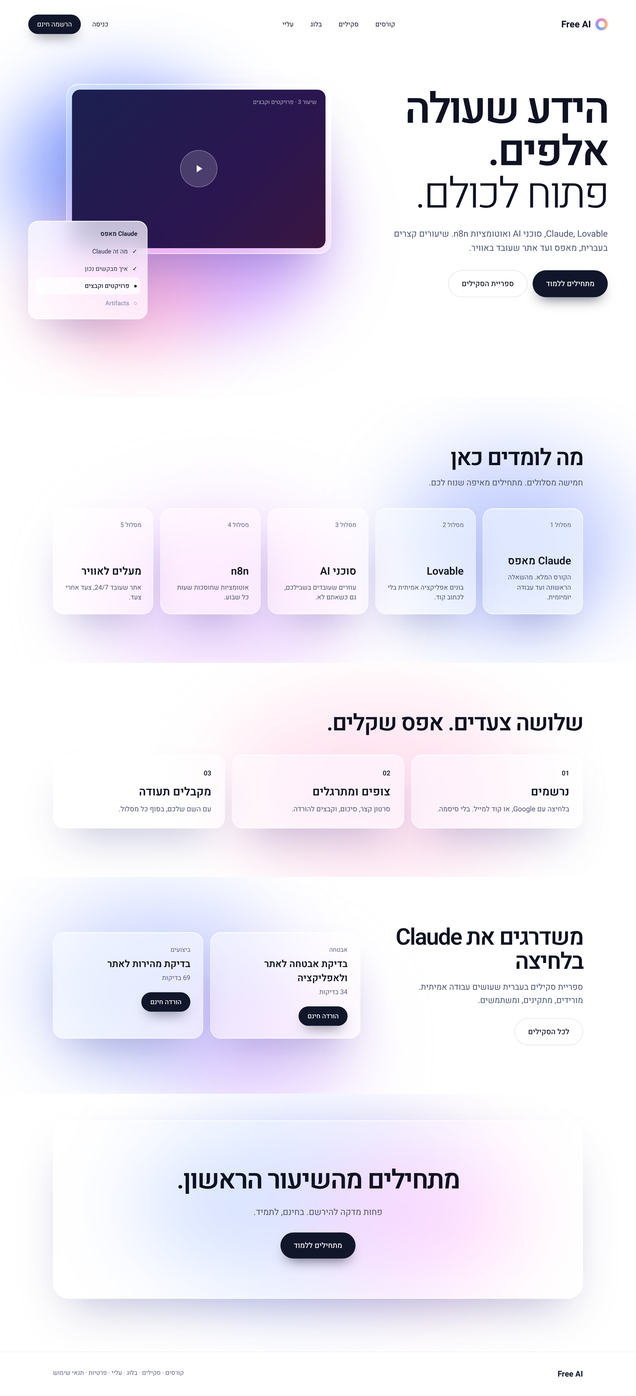
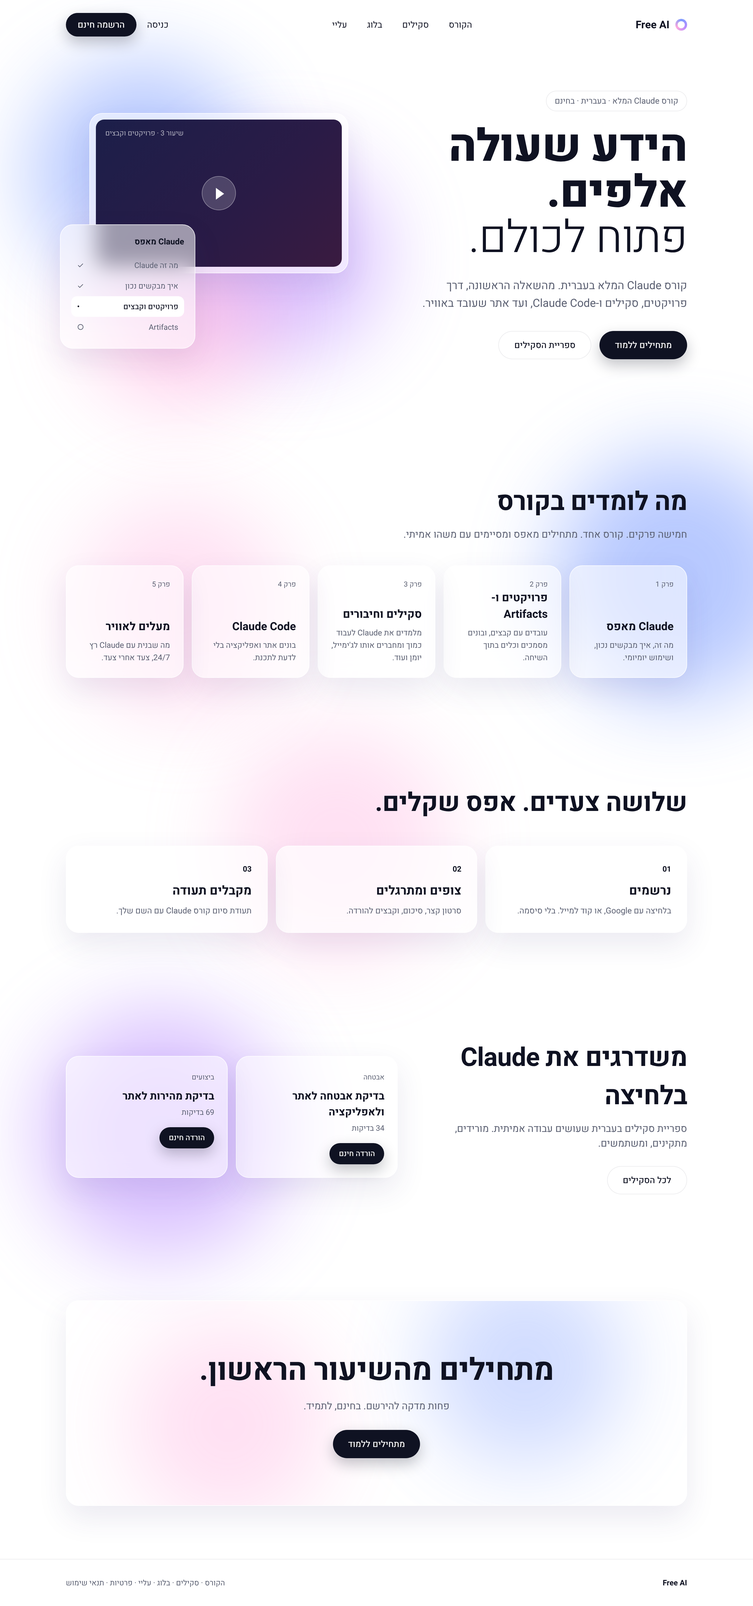
Refocus home page and spec on a single free Claude course
Claude-Session: https://claude.ai/code/session_01WAZ9J6fvZkyDMx8fFy74wA

diff --git a/docs/design/home.html b/docs/design/home.html
@@ -1,0 +1,164 @@
+<!doctype html>
+<html lang="he" dir="rtl">
+<head>
+<meta charset="utf-8">
+<meta name="viewport" content="width=device-width, initial-scale=1">
+<title>Free AI – קורס Claude בחינם</title>
+<link rel="preconnect" href="https://fonts.googleapis.com">
+<link href="https://fonts.googleapis.com/css2?family=Heebo:wght@300;400;500;700;800&display=swap" rel="stylesheet">
+<style>
+  :root{--ink:#0f1222;--muted:#5b6072;--line:rgba(15,18,34,.08);--glass:rgba(255,255,255,.55)}
+  *{box-sizing:border-box;margin:0;padding:0}
+  body{font-family:Heebo,system-ui,sans-serif;color:var(--ink);background:#fff;overflow-x:hidden}
+  a{color:inherit;text-decoration:none}
+  .wrap{max-width:1120px;margin:0 auto;padding:0 32px;position:relative}
+  .blob{position:absolute;border-radius:50%;filter:blur(70px);opacity:.55;z-index:0;pointer-events:none}
+  .b-blue{background:#7c9cff}.b-violet{background:#b98cff}.b-pink{background:#ffa8dc}
+  .glass{background:var(--glass);backdrop-filter:blur(18px);-webkit-backdrop-filter:blur(18px);border:1px solid rgba(255,255,255,.8);box-shadow:0 20px 50px rgba(60,50,120,.10);border-radius:22px;position:relative;z-index:1}
+  .btn{display:inline-flex;align-items:center;justify-content:center;height:48px;padding:0 26px;border-radius:999px;font-weight:500;font-size:15px}
+  .btn-dark{background:var(--ink);color:#fff;box-shadow:0 10px 24px rgba(15,18,34,.25)}
+  .btn-ghost{border:1px solid var(--line);background:#fff}
+  header{display:flex;align-items:center;justify-content:space-between;height:84px;position:relative;z-index:2}
+  .logo{display:flex;align-items:center;gap:10px;font-weight:700;font-size:18px}
+  .logo i{width:20px;height:20px;border-radius:50%;border:4px solid transparent;background:linear-gradient(#fff,#fff) padding-box,conic-gradient(#7c9cff,#b98cff,#ffa8dc,#7c9cff) border-box}
+  nav{display:flex;gap:34px;font-size:15px}
+  .actions{display:flex;gap:18px;align-items:center;font-size:15px}
+  .actions .btn{height:40px;padding:0 20px}
+  .hero{display:grid;grid-template-columns:1.05fr 1fr;gap:40px;align-items:center;padding:70px 0 120px;position:relative}
+  .kicker{display:inline-block;font-size:14px;color:var(--muted);border:1px solid var(--line);border-radius:999px;padding:6px 14px;margin-bottom:22px;background:#fff}
+  h1{font-size:76px;line-height:1.02;font-weight:800;letter-spacing:-1px}
+  h1 span{font-weight:300;display:block}
+  .lead{font-size:19px;color:var(--muted);line-height:1.6;margin:26px 0 32px;max-width:470px}
+  .ctas{display:flex;gap:14px}
+  .stage{position:relative;height:420px}
+  .video{position:absolute;top:20px;left:40px;width:440px;padding:10px}
+  .screen{height:250px;border-radius:14px;background:linear-gradient(135deg,#1c1f4a,#2a1b46 60%,#3a1b40);position:relative}
+  .screen small{position:absolute;top:14px;left:16px;color:rgba(255,255,255,.65);font-size:12px}
+  .play{position:absolute;inset:0;margin:auto;width:58px;height:58px;border-radius:50%;background:rgba(255,255,255,.18);border:1px solid rgba(255,255,255,.35)}
+  .play:after{content:"";position:absolute;left:23px;top:19px;border-left:14px solid #fff;border-top:10px solid transparent;border-bottom:10px solid transparent}
+  .list{position:absolute;bottom:0;left:-10px;width:230px;padding:18px}
+  .list b{font-size:14px;display:block;margin-bottom:12px}
+  .list div{font-size:13px;padding:8px 10px;border-radius:10px;color:var(--muted);display:flex;justify-content:space-between}
+  .list .on{background:#fff;color:var(--ink);font-weight:500}
+  section{padding:90px 0;position:relative}
+  h2{font-size:44px;font-weight:700;letter-spacing:-.5px;position:relative;z-index:1}
+  .sub{color:var(--muted);font-size:17px;margin-top:10px;position:relative;z-index:1}
+  .grid5{display:grid;grid-template-columns:repeat(5,1fr);gap:14px;margin-top:40px}
+  .card{padding:22px;min-height:190px;display:flex;flex-direction:column}
+  .card .n{font-size:12px;color:var(--muted)}
+  .card h3{font-size:19px;margin-top:auto;margin-bottom:8px}
+  .card p{font-size:13.5px;color:var(--muted);line-height:1.55}
+  .grid3{display:grid;grid-template-columns:repeat(3,1fr);gap:14px;margin-top:40px}
+  .step{padding:26px;background:rgba(255,255,255,.7)}
+  .step .n{font-size:13px;font-weight:700}
+  .step h3{font-size:21px;margin:10px 0 8px}
+  .step p{font-size:14px;color:var(--muted)}
+  .skills{display:grid;grid-template-columns:1fr 1.25fr;gap:40px;align-items:center}
+  .skillcards{display:grid;grid-template-columns:1fr 1fr;gap:14px}
+  .sk{padding:22px}
+  .sk .n{font-size:12px;color:var(--muted)}
+  .sk h3{font-size:18px;margin:8px 0 4px}
+  .sk p{font-size:13px;color:var(--muted);margin-bottom:16px}
+  .sk .btn{height:36px;padding:0 16px;font-size:13px}
+  .final{text-align:center;padding:80px 30px;overflow:hidden}
+  .final h2{font-size:52px}
+  .final .sub{margin-bottom:28px}
+  footer{border-top:1px solid var(--line);padding:30px 0;font-size:13px;color:var(--muted)}
+  footer .wrap{display:flex;justify-content:space-between}
+  footer b{color:var(--ink)}
+  @media (max-width:820px){
+    nav{display:none}.hero,.skills{grid-template-columns:1fr}h1{font-size:48px}
+    .grid5,.grid3,.skillcards{grid-template-columns:1fr}.wrap{padding:0 16px}
+    .stage{height:360px}.video{left:0;width:100%}
+  }
+</style>
+</head>
+<body>
+<div class="wrap">
+  <header>
+    <a class="logo" href="#"><i></i>Free AI</a>
+    <nav><a href="#">הקורס</a><a href="#">סקילים</a><a href="#">בלוג</a><a href="#">עליי</a></nav>
+    <div class="actions"><a href="#">כניסה</a><a class="btn btn-dark" href="#">הרשמה חינם</a></div>
+  </header>
+
+  <div class="hero">
+    <div class="blob b-blue" style="width:380px;height:380px;left:-60px;top:20px"></div>
+    <div class="blob b-violet" style="width:340px;height:340px;left:200px;top:180px"></div>
+    <div class="blob b-pink" style="width:300px;height:300px;left:40px;top:300px"></div>
+    <div style="position:relative;z-index:1">
+      <div class="kicker">קורס Claude המלא · בעברית · בחינם</div>
+      <h1>הידע שעולה אלפים.<span>פתוח לכולם.</span></h1>
+      <p class="lead">קורס Claude המלא בעברית. מהשאלה הראשונה, דרך פרויקטים, סקילים ו-Claude Code, ועד אתר שעובד באוויר.</p>
+      <div class="ctas"><a class="btn btn-dark" href="#">מתחילים ללמוד</a><a class="btn btn-ghost" href="#">ספריית הסקילים</a></div>
+    </div>
+    <div class="stage">
+      <div class="glass video"><div class="screen"><small>שיעור 3 · פרויקטים וקבצים</small><span class="play"></span></div></div>
+      <div class="glass list">
+        <b>Claude מאפס</b>
+        <div><span>מה זה Claude</span><span>✓</span></div>
+        <div><span>איך מבקשים נכון</span><span>✓</span></div>
+        <div class="on"><span>פרויקטים וקבצים</span><span>•</span></div>
+        <div><span>Artifacts</span><span>○</span></div>
+      </div>
+    </div>
+  </div>
+</div>
+
+<section>
+  <div class="blob b-blue" style="width:420px;height:420px;right:-80px;top:40px"></div>
+  <div class="blob b-pink" style="width:360px;height:360px;left:10%;top:120px;opacity:.35"></div>
+  <div class="wrap">
+    <h2>מה לומדים בקורס</h2>
+    <p class="sub">חמישה פרקים. קורס אחד. מתחילים מאפס ומסיימים עם משהו אמיתי.</p>
+    <div class="grid5">
+      <div class="glass card"><span class="n">פרק 1</span><h3>Claude מאפס</h3><p>מה זה, איך מבקשים נכון, ושימוש יומיומי.</p></div>
+      <div class="glass card"><span class="n">פרק 2</span><h3>פרויקטים ו-Artifacts</h3><p>עובדים עם קבצים, ובונים מסמכים וכלים בתוך השיחה.</p></div>
+      <div class="glass card"><span class="n">פרק 3</span><h3>סקילים וחיבורים</h3><p>מלמדים את Claude לעבוד כמוך ומחברים אותו לג'ימייל, יומן ועוד.</p></div>
+      <div class="glass card"><span class="n">פרק 4</span><h3>Claude Code</h3><p>בונים אתר ואפליקציה בלי לדעת לתכנת.</p></div>
+      <div class="glass card"><span class="n">פרק 5</span><h3>מעלים לאוויר</h3><p>מה שבנית עם Claude רץ 24/7, צעד אחרי צעד.</p></div>
+    </div>
+  </div>
+</section>
+
+<section>
+  <div class="blob b-pink" style="width:380px;height:380px;left:30%;top:0;opacity:.35"></div>
+  <div class="wrap">
+    <h2>שלושה צעדים. אפס שקלים.</h2>
+    <div class="grid3">
+      <div class="glass step"><span class="n">01</span><h3>נרשמים</h3><p>בלחיצה עם Google, או קוד למייל. בלי סיסמה.</p></div>
+      <div class="glass step"><span class="n">02</span><h3>צופים ומתרגלים</h3><p>סרטון קצר, סיכום, וקבצים להורדה.</p></div>
+      <div class="glass step"><span class="n">03</span><h3>מקבלים תעודה</h3><p>תעודת סיום קורס Claude עם השם שלך.</p></div>
+    </div>
+  </div>
+</section>
+
+<section>
+  <div class="blob b-violet" style="width:420px;height:420px;left:5%;top:40px"></div>
+  <div class="wrap skills">
+    <div>
+      <h2>משדרגים את Claude בלחיצה</h2>
+      <p class="sub">ספריית סקילים בעברית שעושים עבודה אמיתית. מורידים, מתקינים, ומשתמשים.</p>
+      <a class="btn btn-ghost" style="margin-top:26px;position:relative;z-index:1" href="#">לכל הסקילים</a>
+    </div>
+    <div class="skillcards">
+      <div class="glass sk"><span class="n">אבטחה</span><h3>בדיקת אבטחה לאתר ולאפליקציה</h3><p>34 בדיקות</p><a class="btn btn-dark" href="#">הורדה חינם</a></div>
+      <div class="glass sk"><span class="n">ביצועים</span><h3>בדיקת מהירות לאתר</h3><p>69 בדיקות</p><a class="btn btn-dark" href="#">הורדה חינם</a></div>
+    </div>
+  </div>
+</section>
+
+<section>
+  <div class="wrap">
+    <div class="glass final">
+      <div class="blob b-blue" style="width:340px;height:340px;right:10%;top:-60px;opacity:.35"></div>
+      <div class="blob b-pink" style="width:340px;height:340px;left:10%;top:40px;opacity:.35"></div>
+      <h2>מתחילים מהשיעור הראשון.</h2>
+      <p class="sub">פחות מדקה להירשם. בחינם, לתמיד.</p>
+      <a class="btn btn-dark" style="position:relative;z-index:1" href="#">מתחילים ללמוד</a>
+    </div>
+  </div>
+</section>
+
+<footer><div class="wrap"><b>Free AI</b><span>הקורס · סקילים · בלוג · עליי · פרטיות · תנאי שימוש</span></div></footer>
+</body>
+</html>

diff --git a/docs/SPEC.md b/docs/SPEC.md
@@ -1,37 +1,40 @@
 # אפיון: Free AI – גרסה 1
 
+> **מיקוד:** כל האתר הוא קורס Claude אחד, מלא ובחינם. אין מסלולים אחרים.
+
 ## הבעיה
-קורסי AI בעברית (Claude, Lovable, סוכנים, n8n) עולים אלפי שקלים, ולכן בעלי עסקים, פרילנסרים וסקרנים לא לומדים אותם או משלמים יותר מדי.
-מי שלומד בונה אתרים, סוכנים ואוטומציות שצריכים שרת שרץ כל הזמן – ואין לו מושג איזה אחסון לבחור.
-Free AI נותן את כל הידע בחינם, ובכל שלב שבו צריך אחסון מראה איך עושים את זה עם 4CODE.
+קורסי Claude בעברית עולים אלפי שקלים, ולכן בעלי עסקים, פרילנסרים וסקרנים לא לומדים אותם או משלמים יותר מדי.
+מי שלומד בונה עם Claude אתרים וכלים שצריכים שרת שרץ כל הזמן – ואין לו מושג איזה אחסון לבחור.
+Free AI נותן את כל קורס Claude בחינם, ובכל שלב שבו צריך אחסון מראה איך עושים את זה עם 4CODE.
 
 ## מטרות
 1. **עסקית:** הרשמות ל-4CODE דרך הקישור / הקופון של Free AI – זה המדד הראשי.
-2. **לומדים:** לפחות 30% מהנרשמים מסיימים מסלול אחד שלם.
+2. **לומדים:** לפחות 30% מהנרשמים מסיימים את הקורס.
 3. **קהל:** רשימת מיילים של כל הלומדים (ההרשמה היא חובה).
-4. **השקה מהירה:** האתר עולה לאוויר עם מסלול אחד מלא, והשאר נוסף בהדרגה.
+4. **השקה מהירה:** האתר עולה לאוויר עם קורס Claude, והפרקים נוספים בהדרגה.
 
 ## מחוץ לתחום (לא בגרסה 1)
 - **קהילה (וואטסאפ / טלגרם / פורום)** – נוסיף אחרי שיהיו לומדים.
 - **מיילים אוטומטיים ותזכורות** – גרסה 2.
 - **קורסים בתשלום / מנויים** – הכל חינם.
+- **קורסים על כלים אחרים (Lovable, n8n וכו')** – האתר הוא רק Claude.
 - **אנגלית** – רק עברית.
 - **אפליקציה לטלפון** – האתר יעבוד מצוין בטלפון, וזה מספיק.
 
 ## קהלים
-- **בעל עסק קטן** – רוצה לחסוך זמן עם AI ואוטומציות.
+- **בעל עסק קטן** – רוצה לחסוך זמן עם Claude.
 - **פרילנסר / מתחיל בתחום** – רוצה ללמוד לבנות ללקוחות ולהרוויח מזה.
-- **סקרן** – רוצה להבין AI ולהשתמש בו ביומיום.
+- **סקרן** – רוצה להבין את Claude ולהשתמש בו ביומיום.
 
 ## סיפורי משתמש
 - כגולש חדש, אני רוצה לראות מה לומדים ושזה באמת חינם, כדי להחליט אם להירשם.
 - כגולש, אני רוצה להירשם בלחיצה (גוגל) או עם קוד למייל, כדי להתחיל לצפות מיד.
-- כלומד, אני רוצה לבחור מסלול ולראות את רשימת השיעורים בו, כדי לדעת מה מחכה לי.
+- כלומד, אני רוצה לראות את כל פרקי הקורס והשיעורים בו, כדי לדעת מה מחכה לי.
 - כלומד, אני רוצה לצפות בסרטון עם סיכום קצר וקישורים מתחתיו, כדי ליישם בלי לחפש.
 - כלומד, אני רוצה שהאתר יזכור איפה עצרתי, כדי להמשיך מאותה נקודה.
-- כלומד, אני רוצה להוריד קבצים (תבניות n8n, פרומפטים, צ'קליסטים), כדי לא לבנות הכל מאפס.
+- כלומד, אני רוצה להוריד קבצים (פרומפטים, סקילים, צ'קליסטים), כדי לא לבנות הכל מאפס.
 - כלומד שמגיע לשלב העלאה לאוויר, אני רוצה הדרכה צעד-צעד לחיבור אחסון, כדי שמה שבניתי ירוץ 24/7.
-- כלומד שסיים מסלול, אני רוצה תעודה עם השם שלי, כדי להראות ללקוחות ולמעסיקים.
+- כלומד שסיים את הקורס, אני רוצה תעודה עם השם שלי, כדי להראות ללקוחות ולמעסיקים.
 - כגולש, אני רוצה לעבור על ספריית סקילים בעברית ולהוריד אותם בחינם, כדי לשדרג את Claude שלי מיד.
 - כבעל האתר, אני רוצה לשלוח ל-Claude קישור וטקסט והוא מעלה את השיעור או הסקיל, כדי לא להתעסק בטכני.
 - כבעל האתר, אני רוצה לראות כל תלמיד: מתי נרשם, כמה שיעורים ראה ועל אילו קישורים לחץ.
@@ -44,19 +47,19 @@ Free AI נותן את כל הידע בחינם, ובכל שלב שבו צריך 
 ### חובה (P0)
 | דרישה | איך יודעים שזה עובד |
 |---|---|
-| **דף בית** – מסר "הכל בחינם", המסלולים, וכפתור הרשמה | גולש מבין תוך 5 שניות מה יש באתר ולוחץ "הרשמה" |
+| **דף בית** – מסר "קורס Claude המלא, בחינם", פרקי הקורס, וכפתור הרשמה | גולש מבין תוך 5 שניות מה יש באתר ולוחץ "הרשמה" |
 | **הרשמה וכניסה** – גוגל בלחיצה, או מייל עם קוד חד-פעמי (בלי סיסמה) | בלי חשבון אי אפשר לצפות בשיעור באתר; ההרשמה לוקחת פחות מדקה |
-| **דף מסלול** – רשימת שיעורים וכמה הושלמו | הלומד רואה ✓ ליד כל שיעור שסיים |
+| **דף הקורס** – פרקים, רשימת שיעורים וכמה הושלמו | הלומד רואה ✓ ליד כל שיעור שסיים |
 | **דף שיעור** – סרטון יוטיוב ציבורי מוטמע + טקסט קצר + קישורים. גולש לא רשום רואה את תמונת הסרטון וכפתור פליי; לחיצה על פליי פותחת הרשמה, ואחריה הסרטון מתנגן | גולש לא רשום לא יכול לנגן; אחרי הרשמה חוזר לאותו שיעור והסרטון מתנגן; כפתורי "הקודם / הבא" |
 | **שמירת התקדמות** – "סיימתי שיעור" ו"המשך מאיפה שעצרתי" | אחרי כניסה מחדש הלומד מגיע לשיעור הבא |
 | **עמוד סקילים** – ספרייה של סקילים בעברית בחינם, מחולקת לקטגוריות (כתיבה, שיווק, עסק, קוד וכו') עם חיפוש | הגולש מוצא סקיל תוך פחות מ-30 שניות |
 | **דף סקיל** – שם, מה הוא עושה (משפט-שניים), דוגמה לשימוש (מה כותבים ל-Claude ומה מקבלים), צילום מסך של התוצאה, כפתור הורדה, וקישור לסרטון אחד כללי "איך מתקינים סקיל" | ההורדה זמינה רק למשתמש מחובר; גולש לא מחובר שלוחץ "הורדה" עובר להרשמה וחוזר לאותו סקיל |
 | **קבצים להורדה** בשיעור | הקובץ יורד רק למשתמש מחובר |
-| **תעודת סיום מסלול** – PDF עם שם, מסלול ותאריך | נוצרת רק אחרי שכל השיעורים במסלול סומנו כהושלמו |
+| **תעודת סיום קורס Claude** – PDF עם שם ותאריך | נוצרת רק אחרי שכל השיעורים בקורס סומנו כהושלמו |
 | **4CODE בכל מקום שצריך אחסון** – הסבר והפניה בשיעורים הרלוונטיים (קישור מיוחד / קופון יתווסף בשלב האחרון) | כל לחיצה נספרת |
 | **הוספת תוכן** – Claude מוסיף שיעורים, סקילים ומאמרים לפי מה שאתה שולח | שיעור חדש באוויר באותו יום |
 | **מסך ניהול – תלמידים** – רשימת כל התלמידים: שם, מייל, תאריך הרשמה, כמה שיעורים ראה ומה סיים | אתה פותח תלמיד ורואה את כל ההתקדמות שלו |
-| **מסך ניהול – מספרים** – נרשמים לפי יום/שבוע, השלמות שיעורים ומסלולים, הורדות סקילים | הכל במסך אחד |
+| **מסך ניהול – מספרים** – נרשמים לפי יום/שבוע, השלמות שיעורים, פרקים וקורס, הורדות סקילים | הכל במסך אחד |
 | **מסך ניהול – מעקב קישורים** – כל קישור יוצא (4CODE, Affiliates) נספר: כמה לחצו ומי לחץ | אתה רואה לכל קישור כמה לחיצות ואילו תלמידים לחצו |
 | **בלוג מדריכים** – מאמרים פתוחים לכולם, בנויים לגוגל, שמובילים להרשמה | כל מאמר מופיע בגוגל ויש בו כפתור הרשמה |
 | **עמוד "עליי"** – שם, תמונה וסיפור קצר שלך | מופיע בתפריט |
@@ -72,23 +75,24 @@ Free AI נותן את כל הידע בחינם, ובכל שלב שבו צריך 
 ### בהמשך (P2)
 - מיילים אוטומטיים (ברוכים הבאים, "לא חזרת כבר שבוע", שיעור חדש).
 - קהילה.
-- מסלולים נוספים.
+- פרקים ושיעורים נוספים בקורס Claude.
 
 ## עיצוב ומיתוג
 - **דומיין:** free-ai.co.il
 - **סגנון:** רקע לבן. כרטיסי זכוכית שקופה (גלאס) עם טשטוש, מעל כתמי צבע רכים ברקע.
 - **צבעים:** כתמי רקע בכחול, סגול וורוד. כותרות וטקסט בשחור בלבד, בלי צבעים בכותרות. כפתור ראשי שחור. בלי הכתום של Claude.
-- **ראש העמוד:** כותרת "הידע שעולה אלפים. פתוח לכולם." מימין, ומשמאל סרטון השיעור בתוך כרטיס זכוכית, עם כרטיס זכוכית של רשימת השיעורים מעליו.
-- **הדמיה:** docs/design/home.png
+- **ראש העמוד:** תגית "קורס Claude המלא · בעברית · בחינם" וכותרת "הידע שעולה אלפים. פתוח לכולם." מימין, ומשמאל סרטון השיעור בתוך כרטיס זכוכית, עם כרטיס זכוכית של רשימת השיעורים מעליו.
+- **תפריט:** הקורס · סקילים · בלוג · עליי.
+- **הדמיה:** docs/design/home.png (מקור: docs/design/home.html)
 - **אחסון:** 4CODE.
 - **פנים:** אתה מופיע בשמך ובתמונה שלך.
 
-## מסלולים לגרסה 1 (טיוטה)
-1. **Claude מאפס – הקורס המלא** (המסלול הראשון שמצולם).
-2. בונים אפליקציה עם Lovable.
-3. סוכני AI.
-4. אוטומציות עם n8n.
-5. מעלים הכל לאוויר (אחסון 4CODE).
+## פרקי קורס Claude
+1. **Claude מאפס** – מה זה, איך מבקשים נכון, שימוש יומיומי (הפרק הראשון שמצולם).
+2. **פרויקטים ו-Artifacts** – עבודה עם קבצים, ובניית מסמכים וכלים בתוך השיחה.
+3. **סקילים וחיבורים** – מלמדים את Claude לעבוד כמוך ומחברים אותו לג'ימייל, יומן ועוד.
+4. **Claude Code** – בונים אתר ואפליקציה בלי לדעת לתכנת.
+5. **מעלים לאוויר** – מה שבנית עם Claude רץ 24/7 (אחסון 4CODE).
 
 ## מדדי הצלחה
 **מהירים (שבועות ראשונים):**
@@ -98,15 +102,15 @@ Free AI נותן את כל הידע בחינם, ובכל שלב שבו צריך 
 
 **לאורך זמן (חודשים):**
 - הרשמות ל-4CODE דרך הקופון / הקישור – **המדד הראשי** (יעד ייקבע אחרי חודש ראשון).
-- אחוז הנרשמים שמסיימים מסלול – יעד 30%.
+- אחוז הנרשמים שמסיימים את הקורס – יעד 30%.
 
 ## שאלות פתוחות
-- **[אתה]** רשימת השיעורים בקורס Claude מאפס – עוד לא נבנתה.
+- **[אתה]** רשימת השיעורים בכל פרק בקורס Claude – עוד לא נבנתה.
 - **[משפטי – חוסם]** החוק בישראל מחייב לגלות קשר עסקי כשממליצים על מוצר. צריך להחליט איך מנסחים את זה (למשל משפט קצר ליד קישור 4CODE).
 - **[אתה – שלב אחרון]** קישור מיוחד / קופון של 4CODE.
 
 ## לוחות זמנים
-- **שלב 1 – השקה:** כל דרישות החובה + קורס Claude מאפס המלא + עמוד הסקילים.
-- **שלב 2:** שאר המסלולים לפי קצב הצילום.
+- **שלב 1 – השקה:** כל דרישות החובה + פרק 1 של קורס Claude + עמוד הסקילים.
+- **שלב 2:** שאר פרקי קורס Claude לפי קצב הצילום.
 - **שלב 3:** דרישות "כדאי" ו"בהמשך".
 - **שלב אחרון:** קופון / קישור מיוחד של 4CODE.
